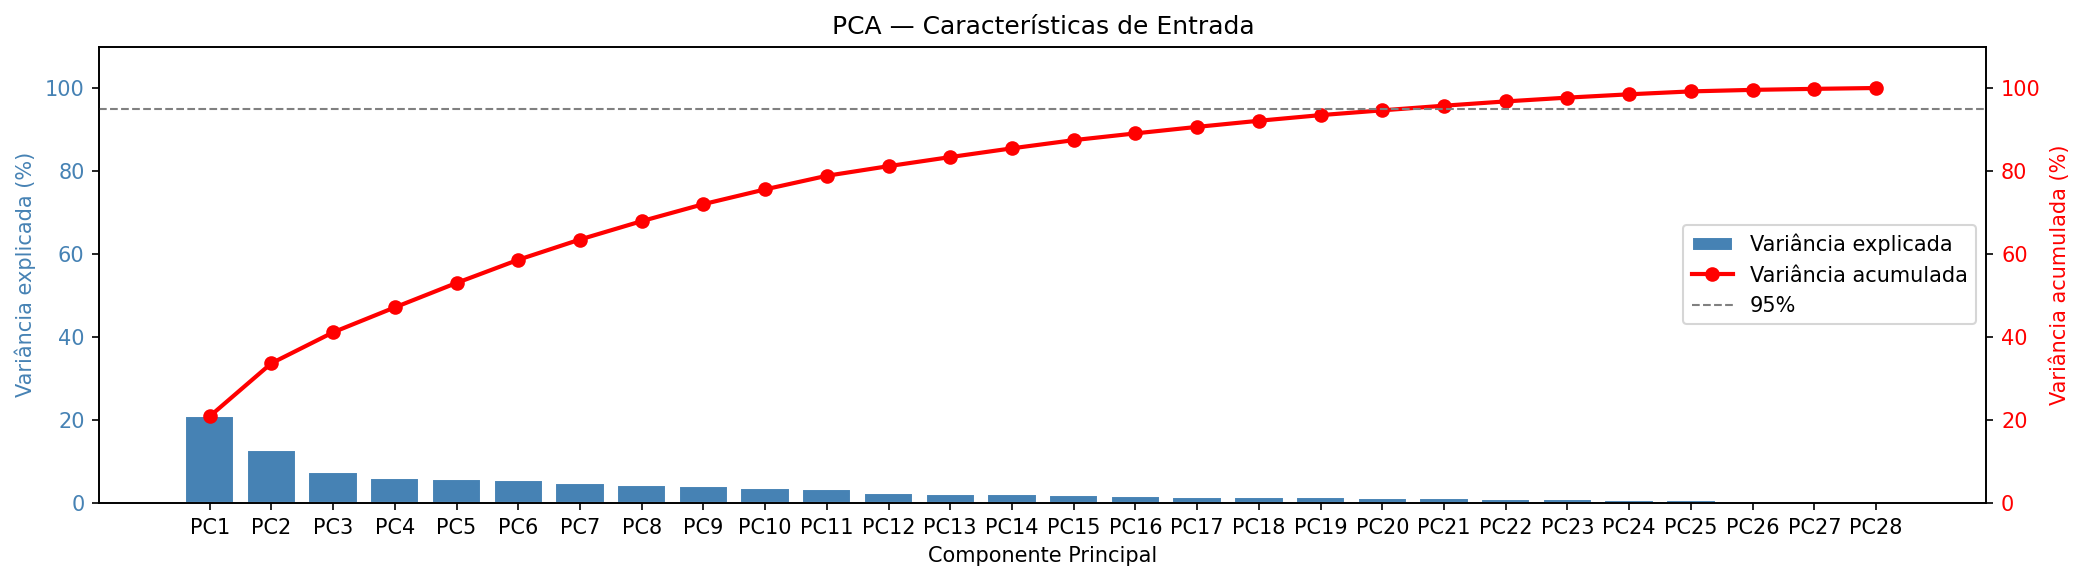
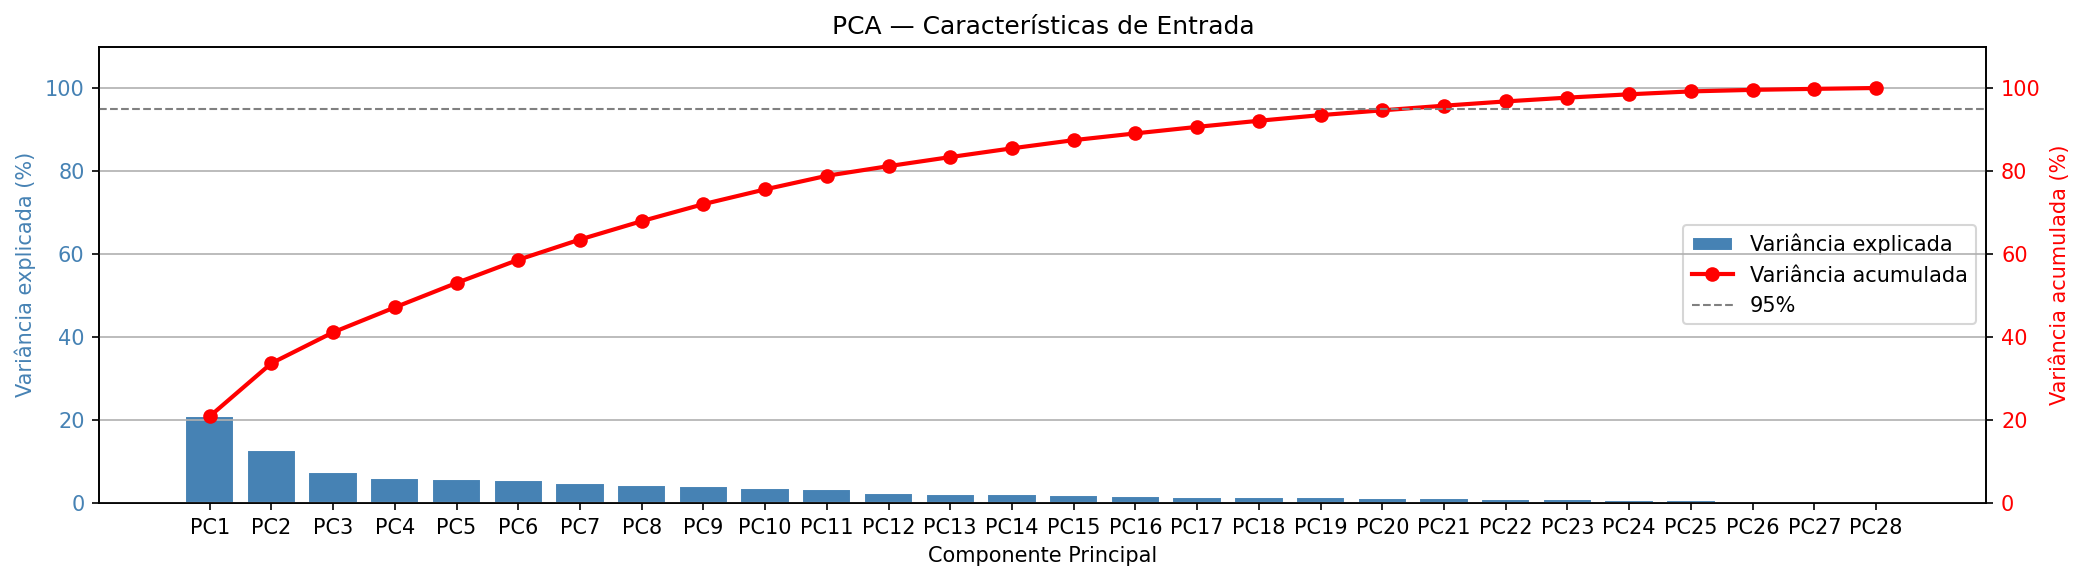
Cleaning NN files for new iteration

diff --git a/src/models/neural_network/nn_pipeline.py b/src/models/neural_network/nn_pipeline.py
@@ -1,0 +1,47 @@
+import sys
+sys.path.insert(0, ".")
+
+import os
+import pandas as pd
+import numpy as np
+from sklearn.preprocessing import PowerTransformer
+from sklearn.decomposition import PCA
+from sklearn.neural_network import MLPRegressor
+
+from src.models.dataset_definitions import X_cols, y_cols
+from src.utils.model_evaluation_utils import (
+    evaluate,
+    plot_euler_hist,
+    plot_accuracy_threshold,
+    plot_hist_geodesic,
+    quaternion_to_euler,
+    geodesic_rmse_scorer,
+    geodesic_rmse_oob,
+)
+
+
+if __name__ == '__main__':
+    K_FOLDS = 10
+    OBJECT_IDS = [4] #list(np.arange(1, 16, 1))
+    SPLIT = '70_30'
+
+    original_df = pd.read_excel(f'processed/splitted_train_{SPLIT}.xlsx')
+    original_df = original_df[(original_df['frame_id'] != 1277) & (original_df['frame_id'] != 1295)] # Gimbal lock (Pitch = 90% - Yaw == Roll)
+
+    for OBJECT_ID in OBJECT_IDS:
+        print(f"\n\nSeaching model configuration for object {OBJECT_ID}...")
+
+        MODELS_DIR  = f'keras_neural_network/models/object_{OBJECT_ID}/neural_network_{SPLIT}'
+        OUTPUT_DIR = f'{MODELS_DIR}/performance'
+
+        os.makedirs(MODELS_DIR, exist_ok=True)
+        os.makedirs(OUTPUT_DIR, exist_ok=True)
+
+        df_train = original_df[(original_df['set'] == 'train') & (original_df['object_id'] == OBJECT_ID)]
+        df_test = original_df[(original_df['set'] == 'test') & (original_df['object_id'] == OBJECT_ID)]
+
+        X_train = df_train[X_cols]
+        y_train = df_train[y_cols].values
+
+        X_test = df_test[X_cols]
+        y_test = df_test[y_cols].values